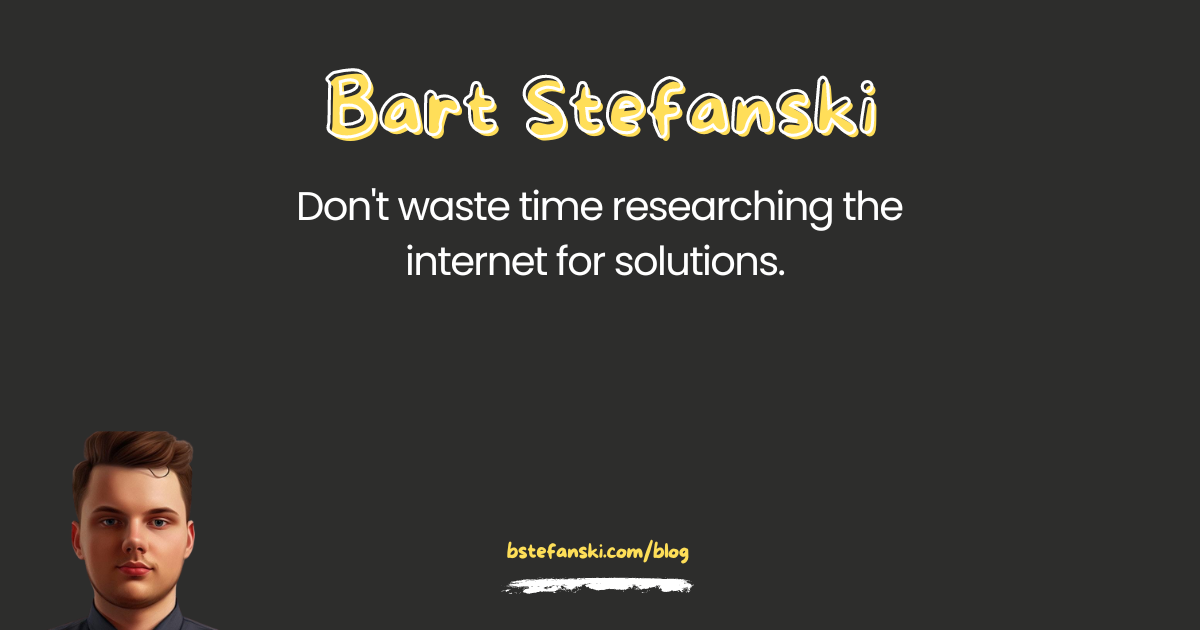
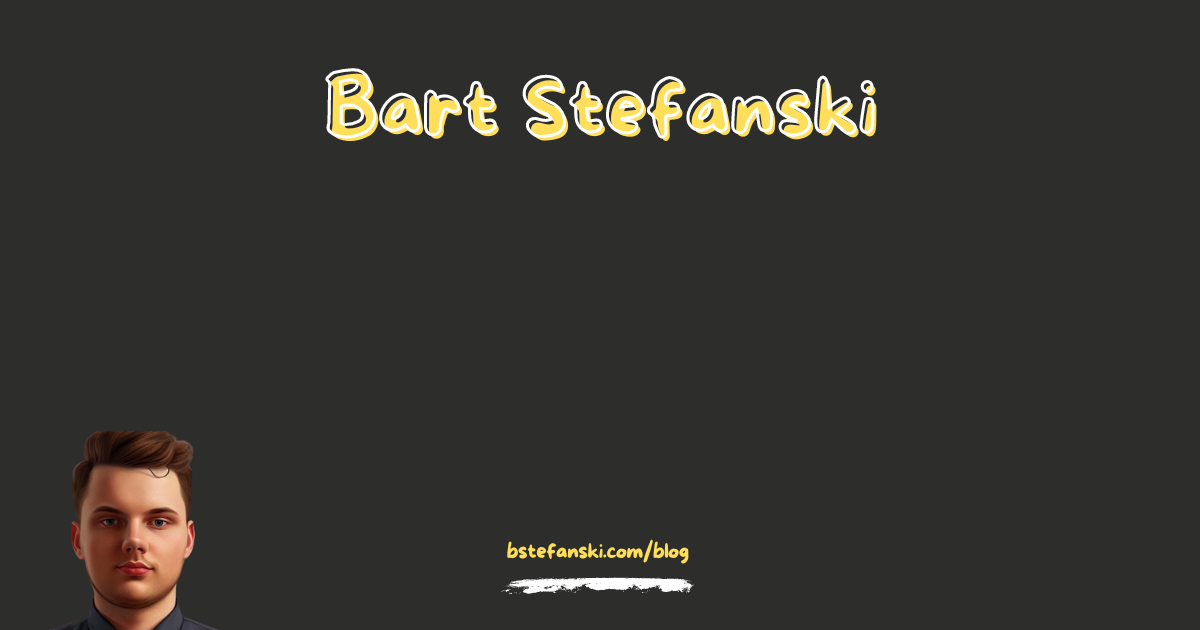
new og-image

Changed region(s): [[0.2467, 0.3016, 0.7708, 0.3619], [0.3392, 0.3921, 0.6475, 0.4524]]

diff --git a/views/HomePage/OpenGraphHead.js b/views/HomePage/OpenGraphHead.js
@@ -4,32 +4,11 @@ import React from 'react'
 export default function OpenGraphHead(props) {
   return (
     <Head>
-      <meta property="og:type" content="video.other" />
-      <meta property="og:url" content="https://media.giphy.com/media/7f8tVWxSu4BTnEOd7o/source.gif" />
-      <meta property="og:image" content="https://media.giphy.com/media/7f8tVWxSu4BTnEOd7o/source.gif" />
-      <meta property="og:image:width" content="1280" />
-      <meta property="og:image:height" content="855" />
-      <meta property="og:type" content="video" />
-      <meta property="og:image" content="https://media.giphy.com/media/7f8tVWxSu4BTnEOd7o/giphy-facebook_s.jpg" />
-      <meta property="og:image:width" content="1280" />
-      <meta property="og:image:height" content="855" />
-      <meta
-        property="og:video"
-        content="http://giphygifs.s3.amazonaws.com/swiphy20141103.swf?api_hostname=&gif_url=https%3A%2F%2Fmedia.giphy.com%2Fmedia%2F7f8tVWxSu4BTnEOd7o%2Fgiphy.gif&giphy_height=855&video_url=&giphyWidth=1200&path=/gifs/7f8tVWxSu4BTnEOd7o&destination_url=https://giphy.com/gifs/7f8tVWxSu4BTnEOd7o&giphyHeight=855&gif_id=7f8tVWxSu4BTnEOd7o&mode=embed&giphy_width=1200"
-      />
-      <meta
-        property="og:video:secure_url"
-        content="https://giphygifs.s3.amazonaws.com/swiphy20141103.swf?api_hostname=&gif_url=https%3A%2F%2Fmedia.giphy.com%2Fmedia%2F7f8tVWxSu4BTnEOd7o%2Fgiphy.gif&giphy_height=855&video_url=&giphyWidth=1200&path=/gifs/7f8tVWxSu4BTnEOd7o&destination_url=https://giphy.com/gifs/7f8tVWxSu4BTnEOd7o&giphyHeight=855&gif_id=7f8tVWxSu4BTnEOd7o&mode=embed&giphy_width=1200"
-      />
-      <meta property="og:video:type" content="application/x-shockwave-flash" />
-      <meta property="og:video:width" content="1280" />
-      <meta property="og:video:height" content="855" />
-      <meta name="twitter:card" content="player" />
-      <meta name="twitter:image:src" content="https://media0.giphy.com/media/7f8tVWxSu4BTnEOd7o/giphy-facebook_s.jpg?t=1" />
-      <meta name="twitter:image" content="https://media0.giphy.com/media/7f8tVWxSu4BTnEOd7o/giphy-facebook_s.jpg?t=1" />
-      <meta name="twitter:player" content="https://giphy.com/embed/7f8tVWxSu4BTnEOd7o/twitter/iframe" />
-      <meta name="twitter:player:width" content="1280" />
-      <meta name="twitter:player:height" content="855" />
+      <meta property="og:url" content="https://bstefanski.com/base-home-og-image.png" />
+      <meta property="og:image" content="https://bstefanski.com/base-home-og-image.png" />
+      <meta property="og:image:width" content="1200" />
+      <meta property="og:image:height" content="630" />
+      <meta name="twitter:card" content="summary_large_image" />
     </Head>
   )
 }
